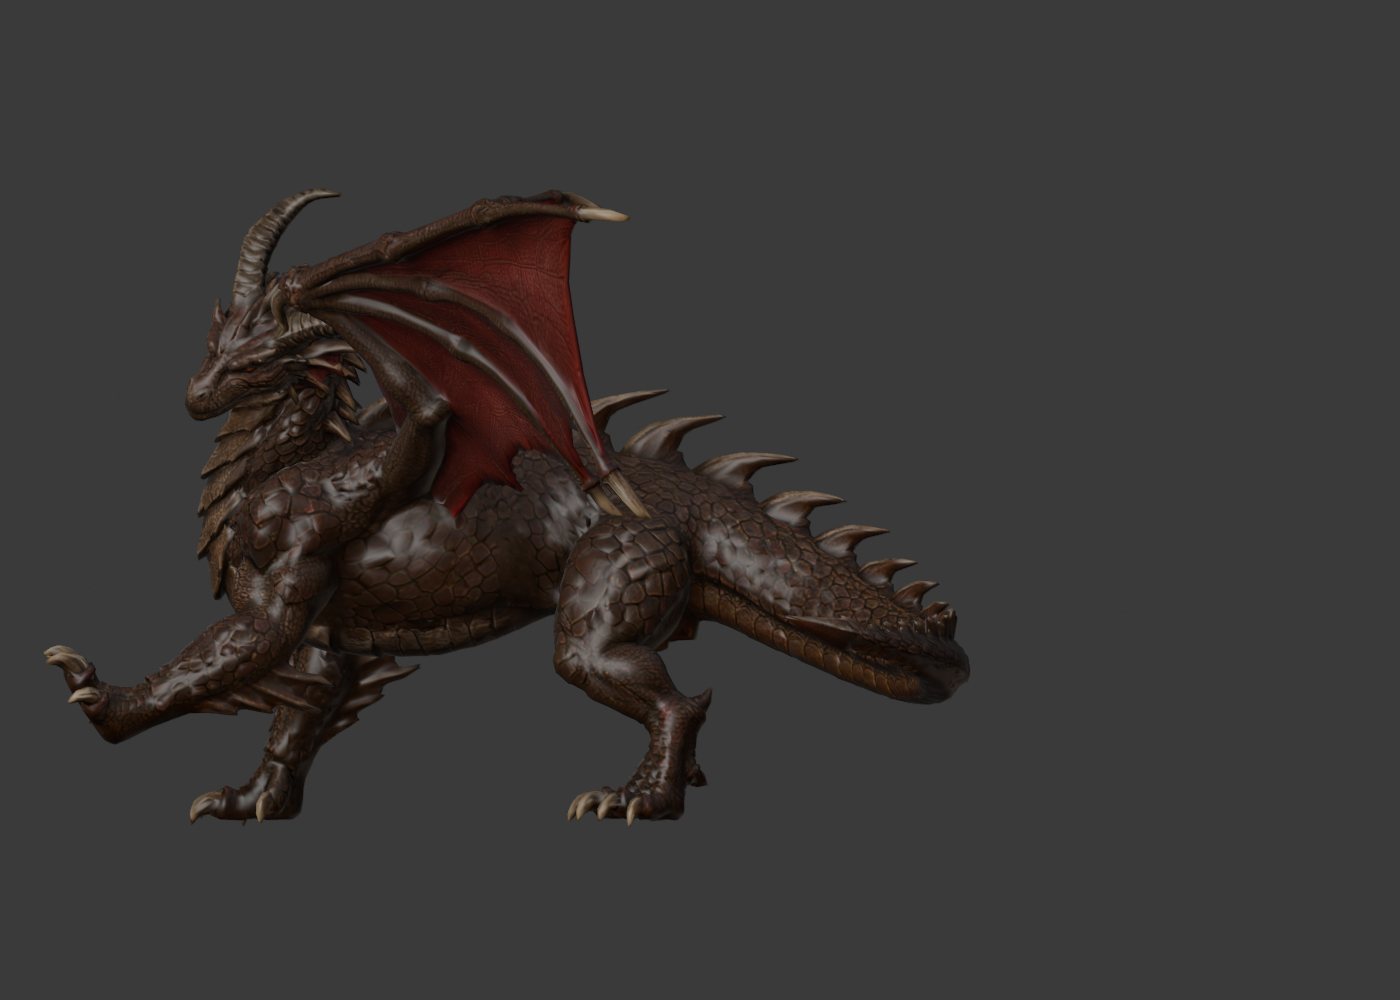
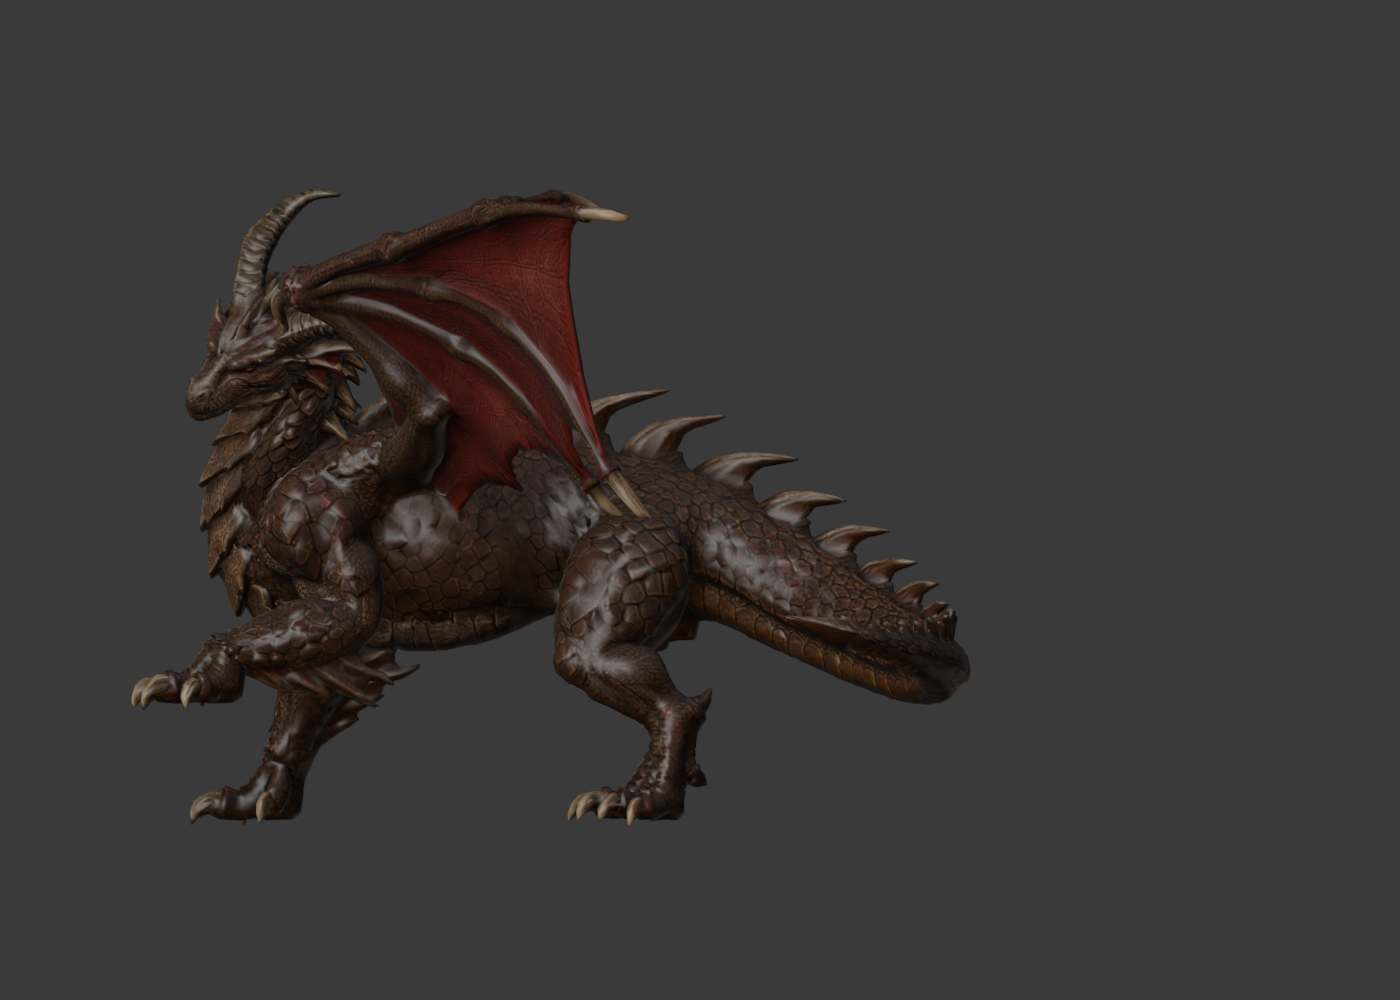
creatures: the dragon stops floating - planted feet (IK), rigid feet, the body moving only down from rest (Moti + Claude)
Moti saw the whole body rise and fall: the legs hung on the spine rode along (front feet 32 mm per metre of height).
rig.py: each foot an unparented ik_ twin its leg reaches by IK, and the skin below the ankle the foot's alone.
animate.py: the rest pose is the legs' full reach, so the chest only sinks from it; a feet check measures the skin
on the ground over each loop: 0.0 in Idle and WingFlap. RECIPE.md: step 6 and the principle, for agents.

Changed region(s): [[0.0307, 0.403, 0.3379, 0.744]]

diff --git a/creatures/animate.py b/creatures/animate.py
@@ -4,7 +4,9 @@ the same chains gets them too.
     blender -b --factory-startup -P animate.py -- dragon
 
 Reads <name>/<name>_rig.blend (step 3). Each clip is an action keyed on every frame from curves of time; every loop
-ends where it began. A motion is a turn about an axis of the creature's own frame (X across, Y front to back, Z up),
+ends where it began. The rest pose is the legs' full reach (its feet are planted by IK, step 3), so the body only
+ever moves DOWN from it and back: a chest that rose past rest would pull the feet off the ground. A motion is a turn
+about an axis of the creature's own frame (X across, Y front to back, Z up),
 added on top of the bone's parent, so a wing's beat reads the same on both sides with the sign mirrored.
 Writes <name>/<name>_anim.blend (the clips as actions, Idle playing, the frame range set) and, for each clip,
 anim_<clip>.png: frames across one loop, side by side, to look at.
@@ -15,7 +17,7 @@ Clips:
   WingFlap  1 s loop. The wings beat from the shoulder (35 deg up and down), the arms and fingers lagging behind so
             the membrane trails, the body bobbing against the beat, the tail balancing.
 """
-import bpy, math, os, sys
+import bpy, json, math, os, sys
 import numpy as np
 from mathutils import Quaternion, Vector
 
@@ -50,11 +52,12 @@ SIDES = (("L", 1), ("R", -1))       # the left wing is on +X: raising it is a tu
 def idle(t):
     w = 2 * math.pi * t
     breath = math.sin(w)
+    sink = (1 + breath) / 2                              # 0 at rest .. 1: the chest only sinks from rest (DOWN)
     spine = chain("spine")
-    turn(spine[1], X, 1.2 * breath)
-    turn(spine[2], X, 1.5 * breath)
+    turn(spine[1], X, 1.2 * sink)                         # +X tips a bone pointing forward down
+    turn(spine[2], X, 1.5 * sink)
     for i, b in enumerate(chain("neck")):
-        turn(b, X, -0.8 * breath)
+        turn(b, X, -0.8 * sink)
         turn(b, Z, 2.0 * math.sin(w - 0.6))
     turn(chain("head")[0], Z, 2.5 * math.sin(w - 1.0))
     for i, b in enumerate(chain("tail")):
@@ -79,9 +82,10 @@ def wing_flap(t):
             for b in bones[1:]:
                 turn(b, Y, up(5, lag + 0.3))
     spine = chain("spine")
-    turn(spine[0], X, 2.0 * math.cos(w + math.pi))       # the body dips as the wings rise
+    dip = (1 - math.cos(w)) / 2                          # 0 with the wings up .. 1 with them down: DOWN only
+    turn(spine[0], X, 3.0 * dip)                          # the chest sinks on the downstroke, back up with the wings
     for b in chain("neck"):
-        turn(b, X, -1.0 * math.cos(w + math.pi))
+        turn(b, X, -1.2 * dip)
     for i, b in enumerate(chain("tail")):
         turn(b, X, (0.8 + 0.3 * i) * math.sin(w - 0.4 * i))
 
@@ -104,6 +108,25 @@ for name, (motion, seconds) in CLIPS.items():
     action.frame_range = (1, frames + 1)
     action.use_cyclic = True
     print("CLIP", name, frames, "frames")
+
+# The feet hold the ground: how far the vertices standing on it (the lowest 2% of the height) move over each loop.
+# More than a few millimetres a metre and the creature floats or skates.
+dg = bpy.context.evaluated_depsgraph_get()
+rest = [v.co.copy() for v in body.data.vertices]
+height = body.dimensions.z
+ground = [i for i, c in enumerate(rest) if c.z < height * 0.02]
+report = {}
+for name, (_, seconds) in CLIPS.items():
+    rig.animation_data.action = bpy.data.actions[name]
+    frames = int(round(seconds * FPS))
+    moved = 0.0
+    for f in range(1, frames + 1, max(1, frames // 24)):
+        scene.frame_set(f)
+        verts = body.evaluated_get(dg).data.vertices
+        moved = max(moved, max((verts[i].co - rest[i]).length for i in ground))
+    report[name] = {"feet_moved_per_metre": round(moved / height, 4)}
+    print("FEET", name, f"{1000 * moved / height:.1f} mm per metre of height")
+json.dump(report, open(os.path.join(HERE, "anim.json"), "w"), indent=1)
 
 # Pictures: frames across each loop, Workbench in the texture's colours, three-quarter front.
 scene.render.engine = "BLENDER_WORKBENCH"

diff --git a/creatures/rig.py b/creatures/rig.py
@@ -10,7 +10,8 @@ its X axis is level (a bend about X lifts and lowers).
 Finding the landmarks is the judgment in this step (the dragon's were read off grid views and mesh slices: see
 RECIPE.md); the rest is mechanical. Writes <name>/<name>_rig.blend, rig.json (bones, vertices no bone moves), and
 pictures: rig_<view>.png (the bones drawn through the body) and bend_<view>.png (wings folded up, neck and tail turned,
-a front leg lifted) to look at for tearing.
+a front leg lifted) to look at for tearing. The chains listed in "feet" stand on the ground: their last bone is held
+by an unparented twin ("ik_<bone>") that the leg reaches by IK, so the body moves over planted feet.
 """
 import bpy, json, math, os, sys
 from mathutils import Vector, Matrix
@@ -58,13 +59,50 @@ for chain in chains:
         owner, _, index = parent.partition(":")
         count = len(chains[owner]) - 1
         edit[bone_name(chain, 0)].parent = edit[bone_name(owner, int(index) if index else count - 1)]
+
+# Planted feet: each foot chain's last bone (the foot on the ground) gets a twin, "ik_<bone>", parented to nothing,
+# so it stays where it stands; the leg reaches it by IK and the foot keeps its turn. The body can then breathe, bob
+# or turn while the feet hold the ground (a leg hung on the spine otherwise rides along and the creature floats).
+feet = list(spec.get("feet", []))
+if spec.get("mirror"):
+    feet += [f[:-2] + ".R" for f in feet if f.endswith(".L")]
+for chain in feet:
+    foot = edit[bone_name(chain, len(chains[chain]) - 2)]
+    ik = edit.new("ik_" + foot.name)
+    ik.head, ik.tail, ik.roll = foot.head, foot.tail, foot.roll
+    ik.use_deform = False
 bpy.ops.object.mode_set(mode="OBJECT")
+for chain in feet:
+    n = len(chains[chain]) - 1                       # bones in the chain; the last is the foot
+    foot = bone_name(chain, n - 1)
+    reach = rig.pose.bones[bone_name(chain, n - 2)].constraints.new("IK")
+    reach.target, reach.subtarget, reach.chain_count = rig, "ik_" + foot, n - 1
+    hold = rig.pose.bones[foot].constraints.new("COPY_ROTATION")
+    hold.target, hold.subtarget = rig, "ik_" + foot
 
 # Automatic (heat) weights.
 bpy.ops.object.select_all(action="DESELECT")
 body.select_set(True); rig.select_set(True)
 bpy.context.view_layer.objects.active = rig
 bpy.ops.object.parent_set(type="ARMATURE_AUTO")
+# Feet are rigid: the skin below a planted foot's ankle (its bone's head), near the foot, goes to the foot alone.
+# Shared with the lower leg, a sole slides whenever the leg bends over it, and the planted foot looks to skate.
+for chain in feet:
+    foot = arm_data.bones[bone_name(chain, len(chains[chain]) - 2)]
+    ankle, toe = foot.head_local, foot.tail_local
+    group = body.vertex_groups[foot.name]
+    reach = max(body.dimensions) * 0.07
+    for v in body.data.vertices:
+        if v.co.z > ankle.z:
+            continue
+        flat, a, b = v.co.xy, ankle.xy, toe.xy
+        t = max(0.0, min(1.0, (flat - a).dot(b - a) / max((b - a).length_squared, 1e-9)))
+        if (flat - (a + (b - a) * t)).length > reach:
+            continue
+        for g in list(v.groups):
+            body.vertex_groups[g.group].remove([v.index])
+        group.add([v.index], 1.0, "REPLACE")
+
 groups = {g.index for g in body.vertex_groups}
 unweighted = sum(1 for v in body.data.vertices if not any(g.group in groups and g.weight > 1e-4 for g in v.groups))
 report = {"bones": len(arm_data.bones), "vertices": len(body.data.vertices), "unweighted": unweighted}
@@ -125,6 +163,9 @@ for side, sign in (("L", 1), ("R", -1)):
     turn("finger1." + side, "X", 30)
 turn("neck", "Z", 50)
 turn("tail", "Z", -70)
-turn("arm.L", "X", 60)
+bpy.context.view_layer.update()
+# A front foot lifted: its planted target raised, the leg bending up to it.
+lift = pose["ik_" + bone_name("arm.L", len(chains["arm.L"]) - 2)]
+m = lift.matrix.copy(); m.translation.z += size * 0.1; m.translation.y -= size * 0.05; lift.matrix = m
 bpy.context.view_layer.update()
 shoot("bend")

diff --git a/creatures/RECIPE.md b/creatures/RECIPE.md
@@ -55,6 +55,11 @@ How the dragon's were found (an agent repeats this with `probe.py` and `grid.py`
   z 0.48) and its three finger struts, each ending in a claw on the membrane's lower edge.
 - Chains: spine 3, neck 4, head 1, tail 10, each front leg 3, each hind leg 4, each wing arm 3 and fingers 3+2+2:
   52 bones. No jaw yet (the mouth is fused).
+- **Planted feet** (`"feet"` in landmarks.json): each foot gets an unparented twin `ik_<foot>` that its leg reaches by
+  IK, so the body moves over feet that hold the ground (56 bones with the four). Without it the legs ride on the spine
+  and the creature floats: Moti saw it at once (the dragon's front feet moved 32 mm per metre of height).
+- **Rigid feet**: the skin below each planted foot's ankle goes to the foot bone alone; shared with the lower leg,
+  the sole slides as the leg bends (4-10 mm/m left after IK, 0 after this).
 
 Writes `<name>_rig.blend`, `rig.json` (52 bones, 0 vertices left unweighted), `rig_<view>.png` (bones drawn through
 the see-through body) and `bend_<view>.png` (wings swung, neck and tail turned, a front leg lifted).
@@ -95,11 +100,21 @@ statue until Forge has creatures.
    (`Quaternion.LookRotation(-forward)`), screenshot. Its face toward the camera means it faces +Z, as Forge wants
    (the dragon did: Blender's -Y front exported with forward -Z, up Y comes out right). Its tab shows in the browser.
 
+## 6. Animate (`animate.py`, ~1 min)
+
+Each clip is motion written as curves of time on the chains (`Idle` 4 s, `WingFlap` 1 s so far), keyed every frame,
+each loop ending where it began. Writes `<name>_anim.blend`, `anim_<clip>.png` (frames across a loop), `anim.json`.
+- **The rest pose is the legs' full reach**: the body only ever moves DOWN from it and back (the chest sinks with a
+  breath and returns; it dips on the wings' downstroke). A chest rising past rest pulls planted feet off the ground.
+- **The feet check** (`anim.json`, `FEET` lines): how far the skin on the ground (the lowest 2% of the height) moves
+  over each loop, per metre of height. It must be ~0; the dragon: 0.0 in both clips. Anything else floats or skates.
+- **LOOK** in Blender (Space plays; Dope Sheet > Action Editor picks the clip): weight, no floating, the wing roots.
+
 ## Next (planned, not built)
 
-6. Animate (waits for Forge creatures; the skeleton and weights are in `<name>_rig.blend`): idle breathing, head
-   look-around, wing fold/unfold, wing-flap loop, walk; roar once there is a jaw. Unity: an Animator for a generic
-   rig, spring bones on tail, neck and wing tips.
+7. More clips: head look-around, wing fold/unfold, walk (the feet's IK targets step), roar once there is a jaw.
+8. Forge plays them (waits for Forge creatures): keep the skeleton on import, bake the IK into keys before the FBX,
+   an Animator for a generic rig, spring bones on tail, neck and wing tips.
 
 ## What is kept in git
 
